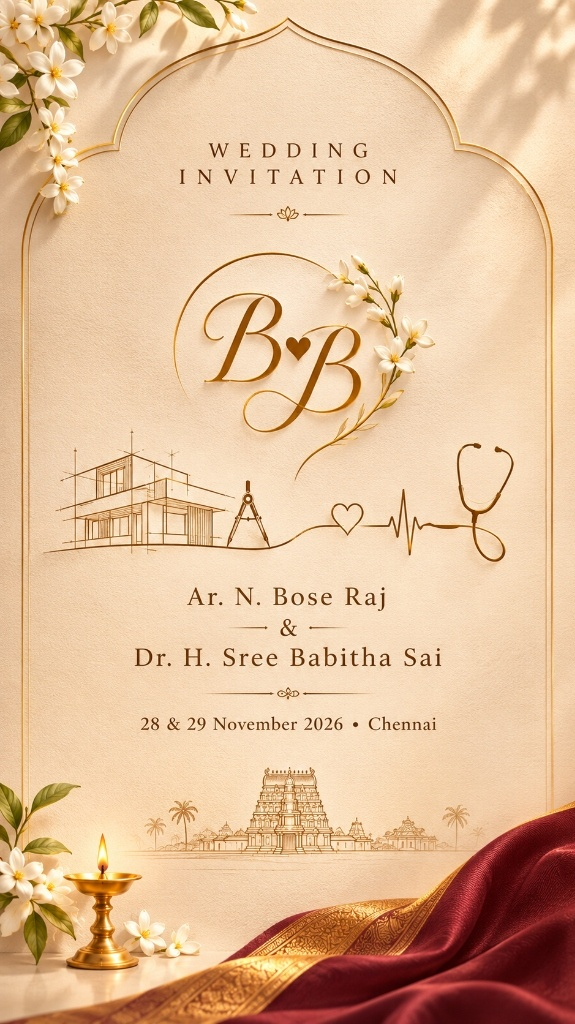
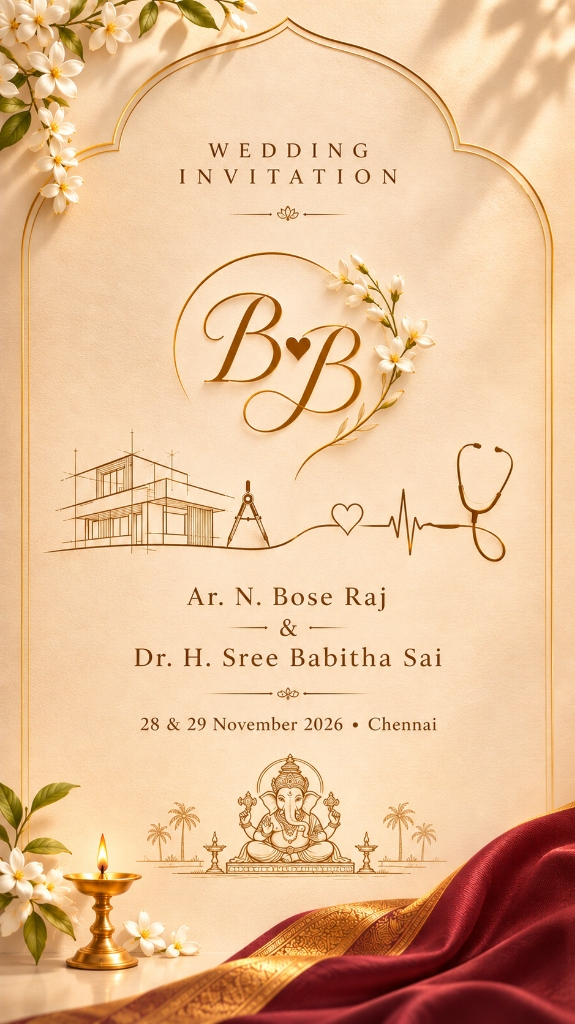
Royal gatefold card opening animation with new cover image
- Updated invitation cover image (with Ganesha)
- Replaced fade-away transition with authentic 3D gatefold opening
- Card splits from center like royal palace double doors
- Golden light burst radiates from center seam as doors swing open
- Both door panels swing 95 degrees with realistic 3D perspective
- Smooth transition from card opening to website reveal
- Works beautifully on both mobile (412px) and desktop (1280px)

diff --git a/style.css b/style.css
@@ -1884,6 +1884,8 @@ body {
 
 /* ==========================================================================
    THE LUXURY CINEMATIC INVITATION OPENING TRANSITION (.is-opening)
+   Royal Gatefold: Card splits down center, two doors swing open like
+   a palace gate, revealing golden light burst and the wedding website.
    ========================================================================== */
 .cinematic-intro-overlay.is-opening {
   pointer-events: none;
@@ -1891,15 +1893,32 @@ body {
 
 .cinematic-intro-overlay.is-opening .cinematic-backdrop {
   opacity: 0;
-  transition: opacity 0.85s cubic-bezier(0.4, 0, 0.2, 1);
+  transition: opacity 1.2s cubic-bezier(0.4, 0, 0.2, 1) 0.6s;
 }
 
-.cinematic-intro-overlay.is-opening .cinematic-card-stage {
-  transform: scale(1.08) translateY(-75px);
+/* Hide the single cover immediately when the gatefold doors take over */
+.cinematic-intro-overlay.is-opening .cinematic-cover-wrapper {
   opacity: 0;
-  filter: blur(12px) brightness(1.22);
-  box-shadow: 0 0 75px rgba(244, 219, 135, 0.95), 0 0 140px rgba(212, 175, 55, 0.6);
-  transition: transform 0.95s cubic-bezier(0.2, 0.8, 0.25, 1), opacity 0.85s cubic-bezier(0.4, 0, 0.2, 1), filter 0.85s ease, box-shadow 0.85s ease;
+  pointer-events: none;
+  transition: opacity 0.05s;
+}
+
+/* Show the gatefold doors container */
+.cinematic-intro-overlay.is-opening .gatefold-doors {
+  display: block;
+}
+
+/* Stop float and hover when opening */
+.cinematic-intro-overlay.is-opening .cinematic-card-stage {
+  animation: none;
+  transform: none;
+  overflow: visible;
+}
+
+/* After doors fully open, fade the whole overlay */
+.cinematic-intro-overlay.is-card-opened {
+  opacity: 0 !important;
+  transition: opacity 0.8s cubic-bezier(0.4, 0, 0.2, 1) !important;
 }
 
 .cinematic-intro-overlay.is-opening .cinematic-action-area {
@@ -1913,6 +1932,159 @@ body {
   opacity: 0 !important;
   pointer-events: none;
   transition: opacity 0.25s ease;
+}
+
+/* ==========================================================================
+   GATEFOLD DOOR PANELS — Hidden at rest, revealed on .is-opening
+   ========================================================================== */
+.gatefold-doors {
+  position: absolute;
+  inset: 0;
+  width: 100%;
+  height: 100%;
+  z-index: 10;
+  display: none;
+  overflow: visible;
+}
+
+/* Each gate panel takes exactly half width */
+.gate-panel {
+  position: absolute;
+  top: 0;
+  height: 100%;
+  width: 50%;
+  overflow: hidden;
+  will-change: transform, opacity;
+  backface-visibility: hidden;
+  -webkit-backface-visibility: hidden;
+}
+
+.gate-left {
+  left: 0;
+  border-top-left-radius: 24px;
+  border-bottom-left-radius: 24px;
+  transform-origin: left center;
+  animation: gateSwingLeft 1.4s cubic-bezier(0.45, 0.05, 0.2, 1) forwards;
+}
+
+.gate-right {
+  right: 0;
+  border-top-right-radius: 24px;
+  border-bottom-right-radius: 24px;
+  transform-origin: right center;
+  animation: gateSwingRight 1.4s cubic-bezier(0.45, 0.05, 0.2, 1) forwards;
+}
+
+/* Inner div positions the full-width image so each panel shows the correct half */
+.gate-panel-inner {
+  position: absolute;
+  top: 0;
+  width: 200%;
+  height: 100%;
+}
+.gate-left .gate-panel-inner {
+  left: 0;
+}
+.gate-right .gate-panel-inner {
+  right: 0;
+}
+
+.gate-door-img {
+  width: 100%;
+  height: 100%;
+  object-fit: cover;
+  display: block;
+}
+
+/* Left door swings open to the left */
+@keyframes gateSwingLeft {
+  0% {
+    transform: perspective(1600px) rotateY(0deg);
+    opacity: 1;
+    box-shadow: 5px 0 25px rgba(0, 0, 0, 0.2);
+  }
+  30% {
+    opacity: 1;
+    box-shadow: 10px 0 40px rgba(0, 0, 0, 0.35);
+  }
+  85% {
+    opacity: 0.5;
+  }
+  100% {
+    transform: perspective(1600px) rotateY(-95deg);
+    opacity: 0;
+    box-shadow: 20px 0 60px rgba(0, 0, 0, 0.5);
+  }
+}
+
+/* Right door swings open to the right */
+@keyframes gateSwingRight {
+  0% {
+    transform: perspective(1600px) rotateY(0deg);
+    opacity: 1;
+    box-shadow: -5px 0 25px rgba(0, 0, 0, 0.2);
+  }
+  30% {
+    opacity: 1;
+    box-shadow: -10px 0 40px rgba(0, 0, 0, 0.35);
+  }
+  85% {
+    opacity: 0.5;
+  }
+  100% {
+    transform: perspective(1600px) rotateY(95deg);
+    opacity: 0;
+    box-shadow: -20px 0 60px rgba(0, 0, 0, 0.5);
+  }
+}
+
+/* Golden center seam flash as the doors part */
+.gate-center-seam {
+  position: absolute;
+  top: 0;
+  left: 50%;
+  width: 4px;
+  height: 100%;
+  transform: translateX(-50%);
+  background: linear-gradient(to bottom, transparent, #FFFDF8 20%, #FFD700 50%, #FFFDF8 80%, transparent);
+  box-shadow: 0 0 30px rgba(255, 215, 0, 0.9), 0 0 60px rgba(255, 165, 0, 0.5);
+  z-index: 15;
+  opacity: 0;
+  pointer-events: none;
+  animation: seamGoldenFlash 1.0s ease-out forwards;
+}
+
+@keyframes seamGoldenFlash {
+  0% { opacity: 0; transform: translateX(-50%) scaleY(0.15); }
+  20% { opacity: 1; transform: translateX(-50%) scaleY(1.0); }
+  60% { opacity: 0.8; transform: translateX(-50%) scaleY(1.0); }
+  100% { opacity: 0; transform: translateX(-50%) scaleY(1.1); }
+}
+
+/* Radiant warm golden light burst from inside the card */
+.gate-light-burst {
+  position: absolute;
+  inset: -40px;
+  background: radial-gradient(
+    ellipse at 50% 45%,
+    rgba(255, 253, 248, 0.95) 0%,
+    rgba(255, 215, 0, 0.7) 15%,
+    rgba(244, 219, 135, 0.4) 35%,
+    rgba(194, 150, 48, 0.15) 55%,
+    transparent 80%
+  );
+  z-index: 1;
+  opacity: 0;
+  transform: scale(0.3);
+  pointer-events: none;
+  animation: goldenBurstReveal 1.2s cubic-bezier(0.2, 0.8, 0.3, 1) 0.15s forwards;
+}
+
+@keyframes goldenBurstReveal {
+  0% { opacity: 0; transform: scale(0.3); }
+  40% { opacity: 1; transform: scale(1.3); }
+  70% { opacity: 0.7; transform: scale(1.5); }
+  100% { opacity: 0; transform: scale(1.8); }
 }
 
 /* ==========================================================================

diff --git a/script.js b/script.js
@@ -526,7 +526,7 @@ function initEnvelopeIntro() {
     if (isOpeningInProgress) return;
     isOpeningInProgress = true;
 
-    // 1. Trigger the luxury upward lift & golden bloom dissolve
+    // 1. Trigger the gatefold card opening: hide single cover, show door panels
     overlay.classList.add('is-opening');
     sessionStorage.setItem('weddingIntroOpened', 'true');
 
@@ -540,25 +540,30 @@ function initEnvelopeIntro() {
       window.triggerPetalBurst(window.innerWidth / 2, window.innerHeight * 0.4);
     }
 
-    // 4. After 900ms, card has dissolved with golden bloom -> hide overlay completely
+    // 4. After doors have swung open (1.4s animation), start fading the entire overlay
+    setTimeout(() => {
+      overlay.classList.add('is-card-opened');
+    }, 1200);
+
+    // 5. After the overlay fully fades, hide it completely
     setTimeout(() => {
       overlay.classList.add('is-hidden');
-    }, 900);
+    }, 2100);
 
-    // 5. Cleanup canvas
+    // 6. Cleanup canvas
     setTimeout(() => {
       isCanvasActive = false;
       if (particleAnimId) cancelAnimationFrame(particleAnimId);
       isOpeningInProgress = false;
-    }, 1400);
+    }, 2500);
   }
 
   function replayIntro() {
     isCanvasActive = true;
     isOpeningInProgress = false;
 
-    // Reset overlay classes
-    overlay.classList.remove('is-hidden', 'is-opening');
+    // Reset overlay classes (including new gatefold classes)
+    overlay.classList.remove('is-hidden', 'is-opening', 'is-card-opened');
 
     window.scrollTo({ top: 0, behavior: 'smooth' });
     initCinematicCanvas();

diff --git a/index.html b/index.html
@@ -57,7 +57,7 @@
     <!-- The Central Cinematic Stage (Responsive 9:16 Invitation Card) -->
     <div class="cinematic-card-stage" id="cinematicStage" role="button" tabindex="0" aria-label="Open wedding invitation">
       
-      <!-- The Final Wedding Invitation Artwork (Start Screen) -->
+      <!-- The Final Wedding Invitation Artwork (Start Screen) — Single seamless cover -->
       <div class="cinematic-cover-wrapper" id="coverWrapper">
         <img src="assets/invitation-cover.jpg" alt="Wedding Invitation - Ar. N. Bose Raj &amp; Dr. H. Sree Babitha Sai" class="cinematic-cover-img" id="coverImg" width="575" height="1024" loading="eager">
         
@@ -75,6 +75,18 @@
 
         <!-- Ambient Card Radial Light Aura -->
         <div class="card-interior-aura" aria-hidden="true"></div>
+      </div>
+
+      <!-- Royal Gatefold Card Opening: Two doors that swing open from center -->
+      <div class="gatefold-doors" id="gatefoldDoors" aria-hidden="true">
+        <div class="gate-panel gate-left">
+          <div class="gate-panel-inner"><img src="assets/invitation-cover.jpg" alt="" class="gate-door-img"></div>
+        </div>
+        <div class="gate-panel gate-right">
+          <div class="gate-panel-inner"><img src="assets/invitation-cover.jpg" alt="" class="gate-door-img"></div>
+        </div>
+        <div class="gate-center-seam" aria-hidden="true"></div>
+        <div class="gate-light-burst" aria-hidden="true"></div>
       </div>
 
       <!-- Interactive Open Button -->
